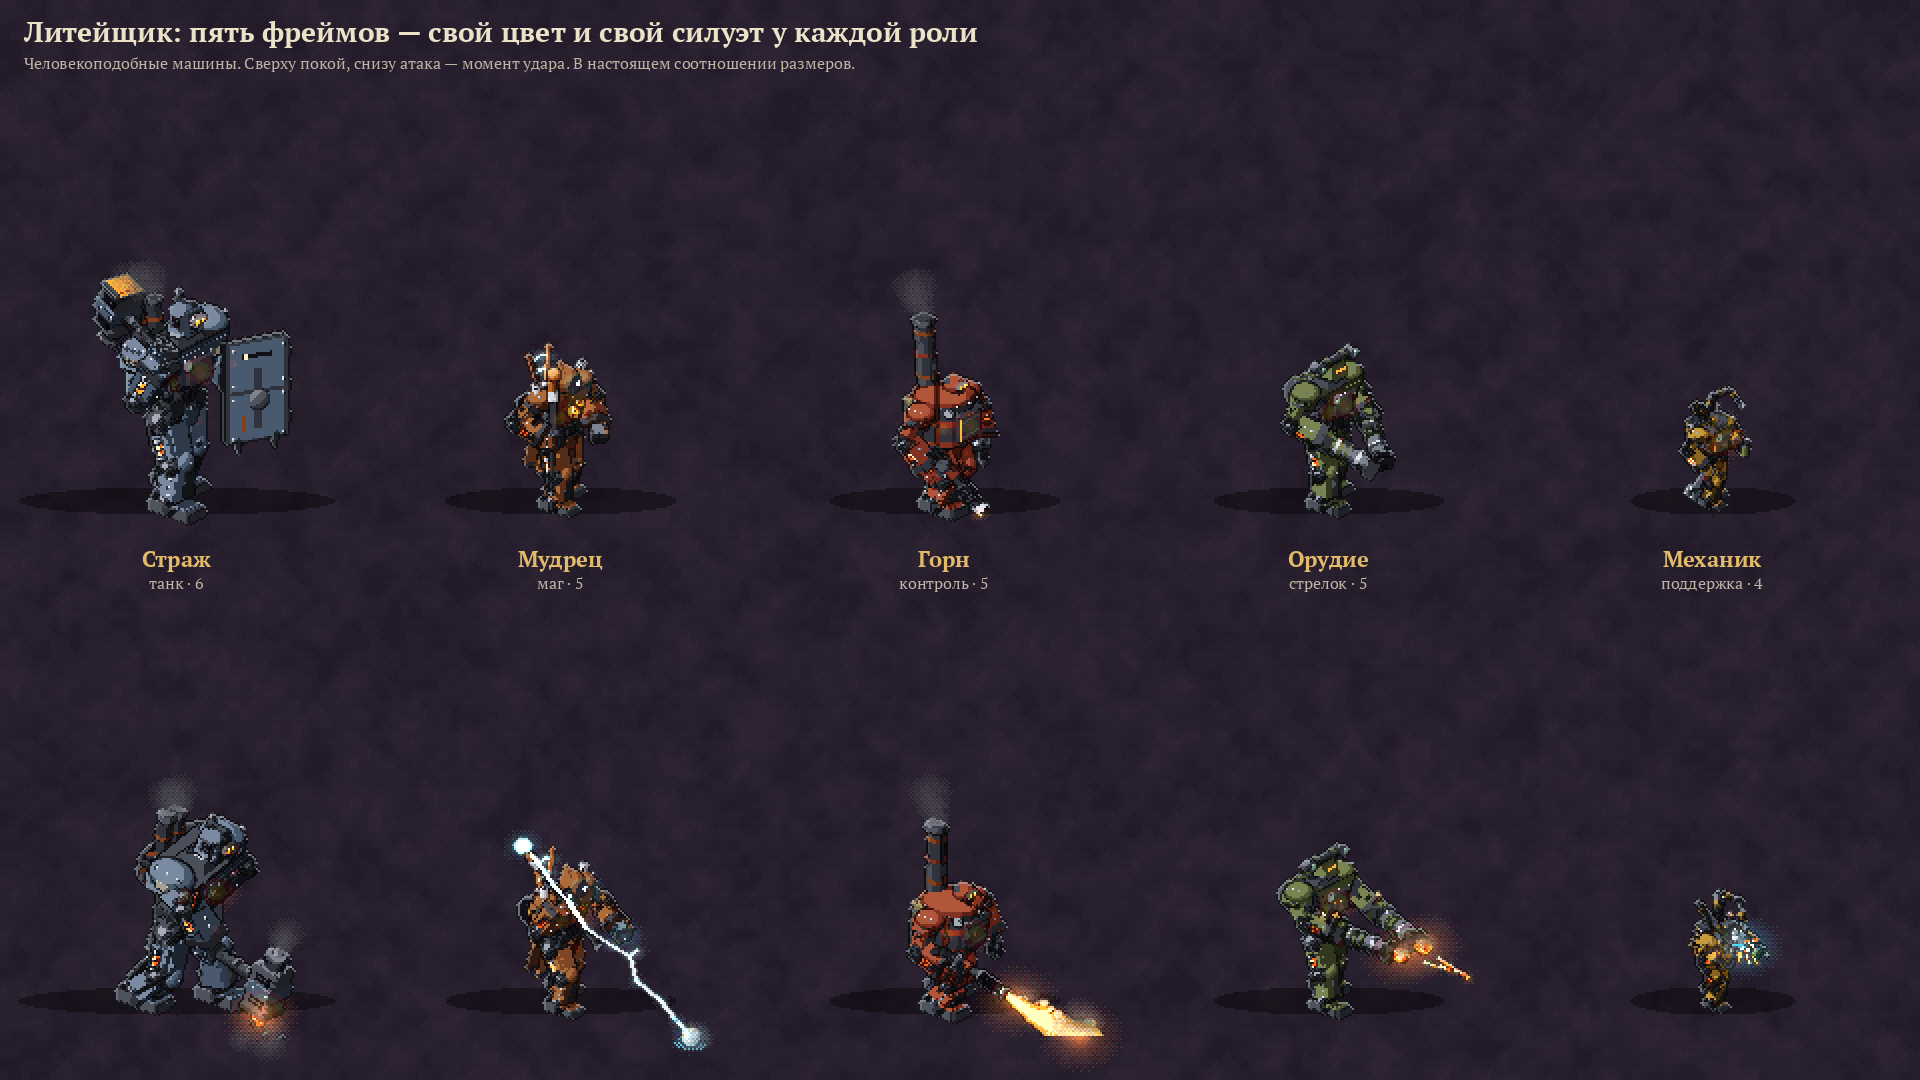
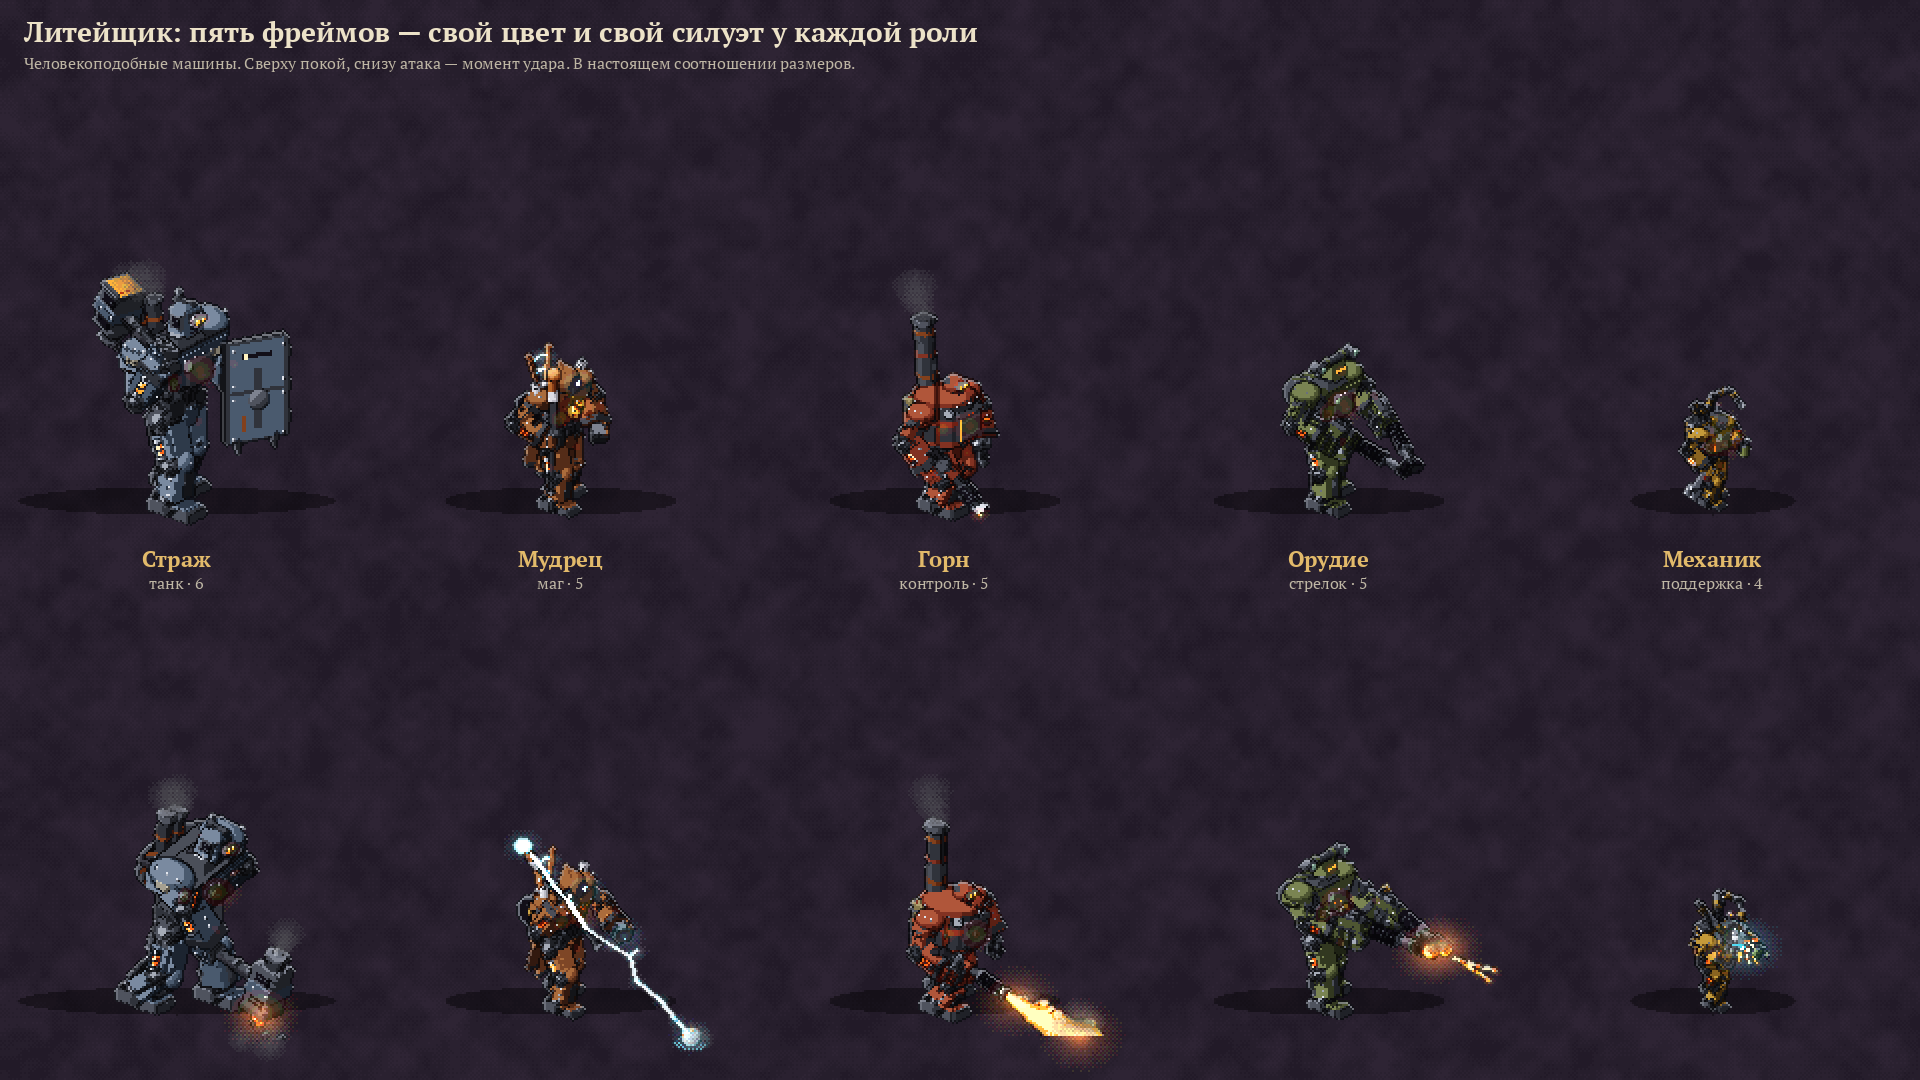
The Gun holds a heavy gun in each hand instead of firing from its fists: grip, stock along the forearm, drum, jacketed barrel, muzzle brake
Claude-Session: https://claude.ai/code/session_01Bh6a99SKMjjKSinDnrtssC

Changed region(s): [[0.6562, 0.3361, 0.75, 0.4583], [0.6875, 0.825, 0.7812, 0.9167]]

diff --git a/tools/sprites/golems_h.py b/tools/sprites/golems_h.py
@@ -603,7 +603,7 @@ GORN = dict(
 )
 
 
-# ---------------------------------------------------------------- Орудие: a gunner, cannons for forearms
+# ---------------------------------------------------------------- Орудие: a gunner with a heavy gun in each hand
 ORUDIE_CORE = Core(20.5, ((6.0, 8.6), (6.6, 9.4)), (0.0, 30.6, (7.6, 8.0), (10.0, 16.0), 8.8), ring_r=2.9)
 
 
@@ -640,26 +640,58 @@ def orudie_torso(G, P, S):
 
 
 def cannon(G, side, sh, el, w, s, P, A, S):
-    """The forearm ends in a breech and a long barrel with bands, a sight and a muzzle brake."""
-    g = G["item_" + side]
+    """A heavy gun held in the fist by its pistol grip and braced along the forearm: a riveted receiver above the
+    fist, a skeleton stock back over the forearm, a drum magazine under the receiver, a long thick barrel in a
+    perforated cooling jacket, a heavy muzzle brake, a sight and a carry handle."""
     d = unit(w - el)
     up = arr((0, 1.0, 0)) - d * d[1]
     up = unit(up) if np.linalg.norm(up) > 1e-6 else arr((1.0, 0, 0))
-    R = np.column_stack([d, up, np.cross(d, up)])
-    g.box(w + d * 1.4, (3.4, 4.6, 4.6), M_DIRON, R)                                        # breech
-    g.box(w + d * 1.4 + up * 2.6, (2.0, 0.8, 2.0), P, R)
-    m0, m1 = w + d * 2.8, w + d * 15.0
-    g.cyl(m0, m1, 2.0, M_IRON, seg=12)
-    for f in (0.12, 0.4, 0.68):
-        p = lerp(m0, m1, f)
-        g.cyl(p, p + d * 0.7, 2.4, M_STEEL if f != 0.4 else P, seg=12)
-    g.cyl(m0, lerp(m0, m1, 0.3), 2.25, P, seg=12)                                        # painted jacket
-    g.box(lerp(m0, m1, 0.35) + up * 2.4, (2.4, 1.0, 0.7), M_DIRON, R)                      # sight
-    g.box(m1 + d * 1.1, (2.4, 4.6, 4.6), M_DIRON, R)                                       # muzzle brake
-    for v in (up, -up):
-        g.box(m1 + d * 1.1 + v * 2.35, (1.3, 0.2, 3.2), M_HOLE, R)
-    g.ell(m1 + d * 2.35, (0.2, 1.3, 1.3), M_HOLE, R)
-    return dict(muzzle=m1 + d * 2.5, breech=w + d * 1.4 + up * 2.0, d=d, up=up)
+    hand, h, u = fist(G, "hand_" + side, w, w - el, up, s, P, th=1.1)
+    g = G["item_" + side]
+    e = unit(np.cross(d, u))
+    R = np.column_stack([d, u, e])
+    c = hand + u * 4.0 + d * 1.2                                                           # the gun's axis over the fist
+    g.cyl(hand - u * 2.2, c - u * 1.4, 0.95, M_IRON, seg=8)                                # pistol grip
+    g.box(c - u * 2.3 + d * 2.2, (2.8, 0.5, 0.6), M_STEEL, R)                              # trigger guard
+    g.box(c - u * 1.9 + d * 3.4, (0.5, 1.2, 0.6), M_STEEL, R)
+    g.box(c, (9.6, 3.6, 3.0), M_DIRON, R)                                                  # receiver
+    g.box(c + u * 0.3 + d * 0.6, (7.2, 2.4, 3.3), P, R)                                    # painted side plates
+    rivets(g, [c + d * t + u * 0.3 + e * 1.7 * sg for t in (-2.6, 0.6, 3.6) for sg in (1, -1)], r=0.3)
+    g.box(c + u * 1.95 - d * 0.6, (5.0, 0.4, 2.2), M_IRON, R)                              # ejection port cover
+    # the stock: two steel struts back over the forearm to a rubber-padded butt plate
+    for a_, b_ in ((c - d * 4.6 + u * 0.8, c - d * 9.4 + u * 0.2), (c - d * 4.6 - u * 1.2, c - d * 9.0 - u * 1.4)):
+        g.cyl(a_, b_, 0.55, M_IRON, seg=6)
+    g.box(c - d * 9.8 - u * 0.6, (1.2, 3.6, 2.4), M_DIRON, R)
+    # a drum magazine under the receiver, ahead of the grip
+    dm = c + d * 2.6 - u * 3.8
+    g.cyl(dm - e * 1.5, dm + e * 1.5, 2.7, M_IRON, seg=16)
+    for sg in (1, -1):
+        g.cyl(dm + e * 1.45 * sg, dm + e * 1.7 * sg, 2.2, P, seg=16)
+        g.cyl(dm + e * 1.7 * sg, dm + e * 1.9 * sg, 0.7, M_STEEL, seg=8)
+    g.box(lerp(dm, c, 0.55) + d * 0.2, (1.6, 1.6, 2.2), M_DIRON, R)                        # its neck into the receiver
+    # the barrel: a thick bore, a perforated cooling jacket, a heavy slotted muzzle brake
+    b0, b1 = c + d * 4.8, c + d * 19.0
+    g.cyl(b0, b1, 0.95, M_IRON, seg=10)
+    j1 = lerp(b0, b1, 0.62)
+    g.cyl(b0, j1, 1.65, M_DIRON, seg=12)
+    for t in np.linspace(0.1, 0.9, 6):
+        p = lerp(b0, j1, t)
+        g.cyl(p, p + d * 0.45, 1.72, M_HOLE, seg=12)
+    g.cyl(b0 - d * 0.3, b0 + d * 0.6, 1.9, P, seg=12)                                      # painted collar
+    g.cyl(j1, j1 + d * 0.5, 1.85, M_STEEL, seg=12)
+    g.box(b1 + d * 1.2, (2.6, 2.6, 2.6), M_DIRON, R)                                       # muzzle brake
+    for v in (u, -u):
+        g.box(b1 + d * 1.2 + v * 1.35, (1.4, 0.2, 2.0), M_HOLE, R)
+    for v in (e, -e):
+        g.box(b1 + d * 1.2 + v * 1.35, (1.4, 2.0, 0.2), M_HOLE, R)
+    g.ell(b1 + d * 2.55, (0.2, 0.75, 0.75), M_HOLE, R)
+    # sights and a carry handle
+    g.box(c + u * 2.3 + d * 3.4, (1.4, 1.0, 0.7), M_DIRON, R)                              # rear sight
+    g.box(b0 + u * 2.0 + d * 0.2, (0.5, 1.2, 0.4), M_DIRON, R)                             # front sight
+    g.cyl(c + u * 3.3 - d * 3.0, c + u * 3.3 + d * 1.2, 0.4, M_IRON, seg=6)
+    for t in (-3.0, 1.2):
+        g.cyl(c + u * 1.8 + d * t, c + u * 3.3 + d * t, 0.35, M_IRON, seg=6)
+    return dict(muzzle=b1 + d * 2.6, breech=c + u * 1.8, d=d, up=u, c=c)
 
 
 def orudie_fx(fx, A, info, S, ft):
@@ -686,10 +718,11 @@ ORUDIE = dict(
     hip=20.5, hz=4.6, hipx=(0.4, -0.8), LT=9.75, LS=7.25, LU=8.0, LF=8.0, th_leg=1.0, th_arm=1.05,
     sh=arr((-0.6, 34.0, 9.2)), torso=orudie_torso, item_n=cannon, item_f=cannon, fx=orudie_fx,
     hit=lambda info: (info["n"]["muzzle"] + info["n"]["d"] * (info["n"]["muzzle"][1] / max(0.05, -info["n"]["d"][1]))) * arr((1, 0, 1)),
-    allow=[("arm_n", "item_n"), ("arm_f", "item_f")],
+    allow=[("arm_n", "item_n"), ("arm_f", "item_f"), ("hand_n", "item_n"), ("hand_f", "item_f"),
+           ("arm_n.ram", "item_n"), ("arm_f.ram", "item_f")],
     poses=dict(
         idle=dict(lean=0.0, t=(0.0, 0.0, 0.0), ank=((2.8, 3.6, 5.3), (-4.6, 3.6, -5.4)),
-                  hand_n=(6.0, -10.5, 1.0), pole_n=(-0.6, -0.2, 0.8), hand_f=(5.5, -10.5, -1.0), pole_f=(-0.6, -0.2, -0.8)),
+                  hand_n=(7.6, -9.2, 2.8), pole_n=(-0.6, -0.2, 0.8), hand_f=(6.8, -9.6, -2.8), pole_f=(-0.6, -0.2, -0.8)),
         # aimed at an enemy two or three rows off (about 100 units): at a bug, at a body of its own height, at a giant
         attack=dict(lean=0.12, t=(-0.8, -0.4, 0.0), ank=((3.8, 3.6, 5.8), (-5.6, 3.6, -5.8)), hand_n=(12.74, -7.2, -0.14), pole_n=(-1.29, -0.42, 0.88), hand_f=(12.9, -7.41, -0.18), pole_f=(-0.65, -0.42, -0.48), ram_n="front", ram_f="back", fx=True),
         attack_level=dict(lean=0.09, t=(-0.8, -0.4, 0.0), ank=((3.8, 3.6, 5.8), (-5.6, 3.6, -5.8)), hand_n=(8.46, -8.19, -0.1), pole_n=(-1.26, -0.63, 0.54), hand_f=(9.67, -7.73, -0.8), pole_f=(-0.87, -0.76, -0.59), ram_n="front", ram_f="back", fx=True),

diff --git a/tools/sprites/golem_parts.py b/tools/sprites/golem_parts.py
@@ -80,7 +80,7 @@ ARMS = {   # key: name, item, the pose its donor holds it in (near side), extra 
     "fist": ("Кулак-поршень", _fist, dict(hand=(4.0, -11.6, 1.6), pole=(-0.5, -0.2, 1.0))),
     "maul": ("Паровой молот", _maul, dict(hand=(HM.WX, HM.WY, HM.WZ), pole=(1.4, -7.6, 2.0))),
     "shield": ("Щит", _shield, dict(hand=(5.8, -10.0, 2.0), pole=(0.8, -8.0, 1.6))),
-    "cannon": ("Пушка", GH.cannon, dict(hand=(6.0, -10.5, 1.0), pole=(-0.6, -0.2, 0.8))),
+    "cannon": ("Пушка", GH.cannon, dict(hand=(7.6, -9.2, 2.8), pole=(-0.6, -0.2, 0.8))),
     "staff": ("Посох-электрод", GH.sage_staff, dict(hand=(5.0, -8.0, 4.0), pole=(-0.6, -0.6, 1.0),
                                                     staff_dir=(0.05, 1.0, 0.05), hold=0.46)),
     "focus": ("Ладонь-разрядник", GH.sage_focus, dict(hand=(5.0, -12.0, 1.2), pole=(-0.4, -0.2, 1.0))),

diff --git a/docs/CONCEPT.md b/docs/CONCEPT.md
@@ -340,7 +340,7 @@
 - **Пул**: у каждого корпуса 6 модулей своей роли, плюс ядро, редкие модули и общие детали.
   В мастерской выпадают модули только для корпусов, которые есть в армии; детали — для всех.
 - Ролей пять, а големов от 2 до 5–7: закрыть всё нельзя, выбор ролей — главное решение похода.
-  Можно взять два одинаковых корпуса с разными сборками — и Стража с пушками вместо молота.
+  Можно взять два одинаковых корпуса с разными сборками — и Стража с тяжёлым ружьём вместо молота.
 
 **Детали без уровней.** Лишняя деталь лежит на **стойке** и ставится на любого голема; переставлять
 детали в мастерской бесплатно. Пустых мест на теле нет: снятую руку заменяет Кулак-поршень, ноги —
@@ -366,7 +366,7 @@
 | Кулак-поршень | дробящий удар вплотную, слабый; запасная |
 | Паровой молот | дробящий удар вплотную, тяжёлый |
 | Щит | удары спереди — вполсилы; на нём держатся Ростовой щит и Контрудар |
-| Пушка | дробящий выстрел на 3 клетки; на ней — модули ствола |
+| Пушка | тяжёлое ружьё в руке: дробящий выстрел на 3 клетки; на ней — модули ствола |
 | Посох-электрод | молния на 4 клетки; на нём — заклинания Мудреца |
 | Ладонь-разрядник | наводит: молнии и заклинания голема бьют на клетку дальше |
 | Огнемёт *(огонь)* | струя огня на 2 клетки |
@@ -414,7 +414,8 @@
 топка за решёткой в груди, маховик турбины на спине, разряд бежит вверх между двух медных рогов,
 в руке посох-электрод с медным шаром (голубым, когда бьёт молнией, оранжевым — огнём); Горн —
 кирпично-красная печь-бочка с высокой трубой, огнемётом на шланге от баков на спине и клещами;
-Орудие — оливковый стрелок с пушками вместо кистей, дальномером и барабаном; Механик — охра,
+Орудие — оливковый стрелок с двумя тяжёлыми ружьями в руках (пистолетная рукоять, приклад вдоль
+предплечья, барабанный магазин, длинный ствол в кожухе охлаждения), дальномером и барабаном на спине; Механик — охра,
 ходячая мастерская: ящик с инструментом на спине, два манипулятора над плечами (горелка
 и захват), голова-фонарь, большой ключ и маслёнка.
 

diff --git a/docs/ART.md b/docs/ART.md
@@ -34,8 +34,9 @@
   и своё тело: Страж — рыцарь с паровым молотом и башенным щитом; Мудрец — маг в капюшоне с одной
   голубой линзой, электростанция на ногах: окно топки в груди, маховик и медные рога с бегущим
   разрядом на спине, медные полы-фалды, посох-электрод с медным шаром; Горн — коренастая печь-бочка с высокой трубой, головой кочегара в очках,
-  огнемётом на шланге от топливных баков и клещами; Орудие — стрелок с пушками вместо кистей,
-  дальномером поперёк головы и барабаном на спине; Механик — ходячая мастерская: ящик
+  огнемётом на шланге от топливных баков и клещами; Орудие — стрелок с тяжёлым ружьём в каждой руке
+  (рукоять в кулаке, приклад вдоль предплечья, барабанный магазин, ствол в кожухе охлаждения с дульным
+  тормозом), дальномером поперёк головы и барабаном на спине; Механик — ходячая мастерская: ящик
   с инструментом, два манипулятора над плечами (горелка и захват), голова-фонарь, ключ и маслёнка.
   Отец колосса — машина для убийства: широкий корпус тёмного оружейного металла с красными
   полосами, низкая голова с тремя красными глазами, электробулава и миниган. Маньяк — безумец в кабине-клетке экзоскелета из хлама: пила, бур,
